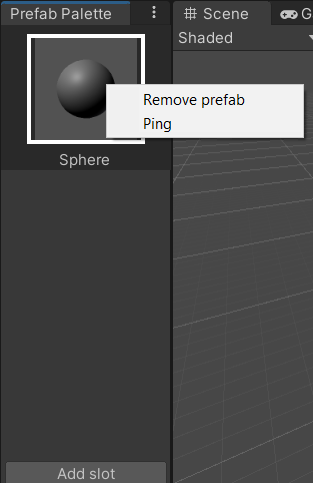
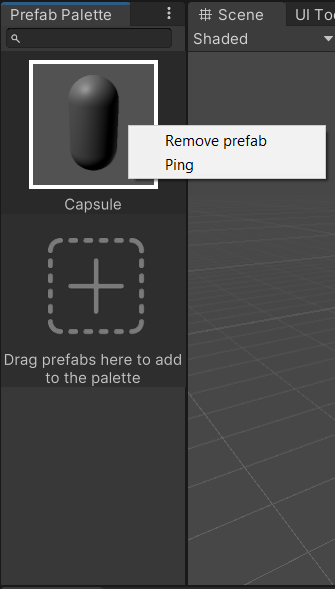
Update README.md

diff --git a/README.md b/README.md
@@ -14,6 +14,10 @@ Drag the prefab you want from the Project window to one of the slots.
 You can add new slots, as many as necessary using the button in the bottom.</br>
 You can save, load and clear palettes by using the menu on the upper right corner of the window.
 
+You can also search for a specific prefab in your palette.
+
+![]
+
 ![Save, Load and clear buttons](CornerMenu.png)
 
 You can also remove or ping the prefab you want by right-clicking on it.
